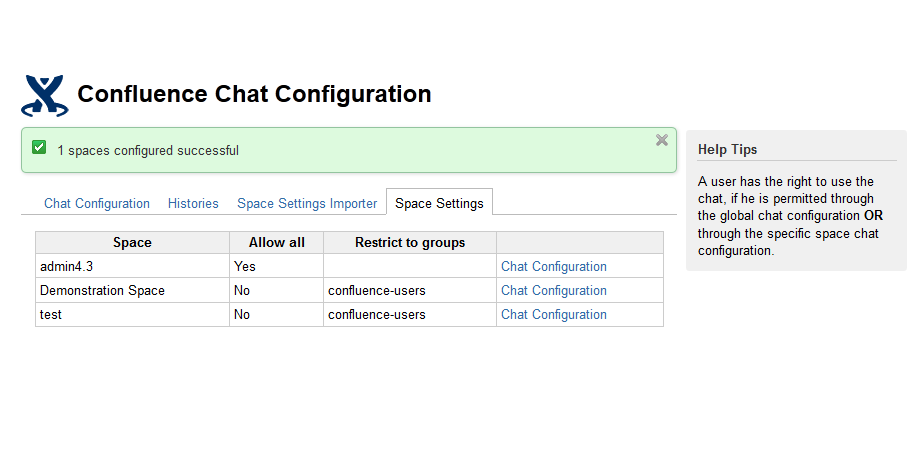
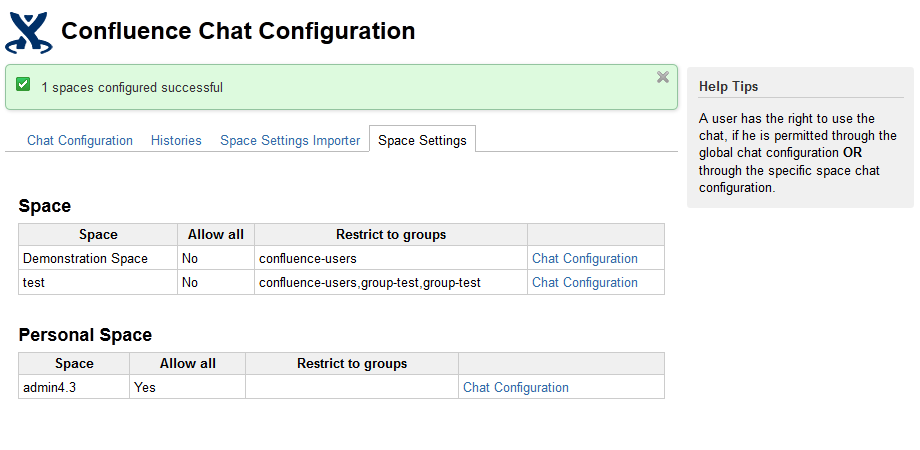
create 1.5.0 add append group permission option

diff --git a/src/main/java/confluence/chat/config/AutoConfigureMultipleSpacesAction.java b/src/main/java/confluence/chat/config/AutoConfigureMultipleSpacesAction.java
@@ -35,26 +35,33 @@ public class AutoConfigureMultipleSpacesAction extends ViewConfigurationAction {
         if (request.getParameterValues("space") != null) {
             boolean allowAll = StringUtils.isNotEmpty(request.getParameter("allowAll"));
             boolean overwriteAllowAll = StringUtils.isNotEmpty(request.getParameter("overwriteAllowAll"));
-            boolean overwriteGroups = StringUtils.isNotEmpty(request.getParameter("overwriteGroups"));
-            if (overwriteAllowAll || overwriteGroups) {
-                List<String> groups = ChatUtils.stringToList(request.getParameter("groups"));
-                String[] spaces = request.getParameterValues("space");
-                for (int i = 0; i < spaces.length; i++) {
-                    Space space = spaceManager.getSpace(spaces[i]);
-                    if (space != null) {
-                        configured++;
-                        ChatSpaceConfiguration config = getChatManager().getChatSpaceConfiguration(space.getKey());
-                        if (overwriteAllowAll) {
-                            config.setAllowAll(allowAll);
-                        }
-                        if (overwriteGroups) {
-                            config.setGroups(groups);
-                        }
-                        getChatManager().setChatSpaceConfiguration(config, space.getKey());
+//            boolean overwriteGroups = StringUtils.isNotEmpty(request.getParameter("overwriteGroups"));
+            boolean appendGroups = StringUtils.isNotEmpty(request.getParameter("appendGroups"));
+
+            List<String> groups = ChatUtils.stringToList(request.getParameter("groups"));
+            String[] spaces = request.getParameterValues("space");
+            for (int i = 0; i < spaces.length; i++) {
+                Space space = spaceManager.getSpace(spaces[i]);
+                if (space != null) {
+                    configured++;
+                    ChatSpaceConfiguration config = getChatManager().getChatSpaceConfiguration(space.getKey());
+                    if (overwriteAllowAll) {
+                        config.setAllowAll(allowAll);
                     }
+                    if (appendGroups) {
+                        for (int j = 0; j < groups.size(); j++) {
+                            String group = groups.get(j);
+                            if (!config.getGroups().contains(group)) {
+                                config.getGroups().add(group);
+                            }
+                        }
+
+                    } else {
+                        config.setGroups(groups);
+                    }
+                    getChatManager().setChatSpaceConfiguration(config, space.getKey());
                 }
             }
-
         }
         if (configured > 0) {
             addActionMessage(getText("chat.config.import.success", Arrays.asList(configured)));

diff --git a/src/main/java/confluence/chat/Version.java b/src/main/java/confluence/chat/Version.java
@@ -1,4 +1,4 @@
 package confluence.chat;
 public final class Version {
- public static String VERSION="1.5.0-SNAPSHOT";
+ public static String VERSION="1.5.0";
 }

diff --git a/README.md b/README.md
@@ -18,6 +18,12 @@ If the user uses confluence with multiple Browser Tabs or Browsers at the same t
 
 ## Releases
 **IMPORTANT: If you upgrade from <= 1.1.1 and the chat doesn't work, please remove all chatboxes (could be deleted in the chat admin area => backend)  and restart your confluence.**
+### 1.5.0
+* Autoconfigure multiple spaces at once
+* Overviewtable with all space settings
+* Change global / space permission check from an AND to an OR
+* fix invalid breadcrumb in space admininstration
+
 ### 1.4.0
 * Permissions and Restrictions on Space level
 * Compatibility with Terms and Condition Plugin
